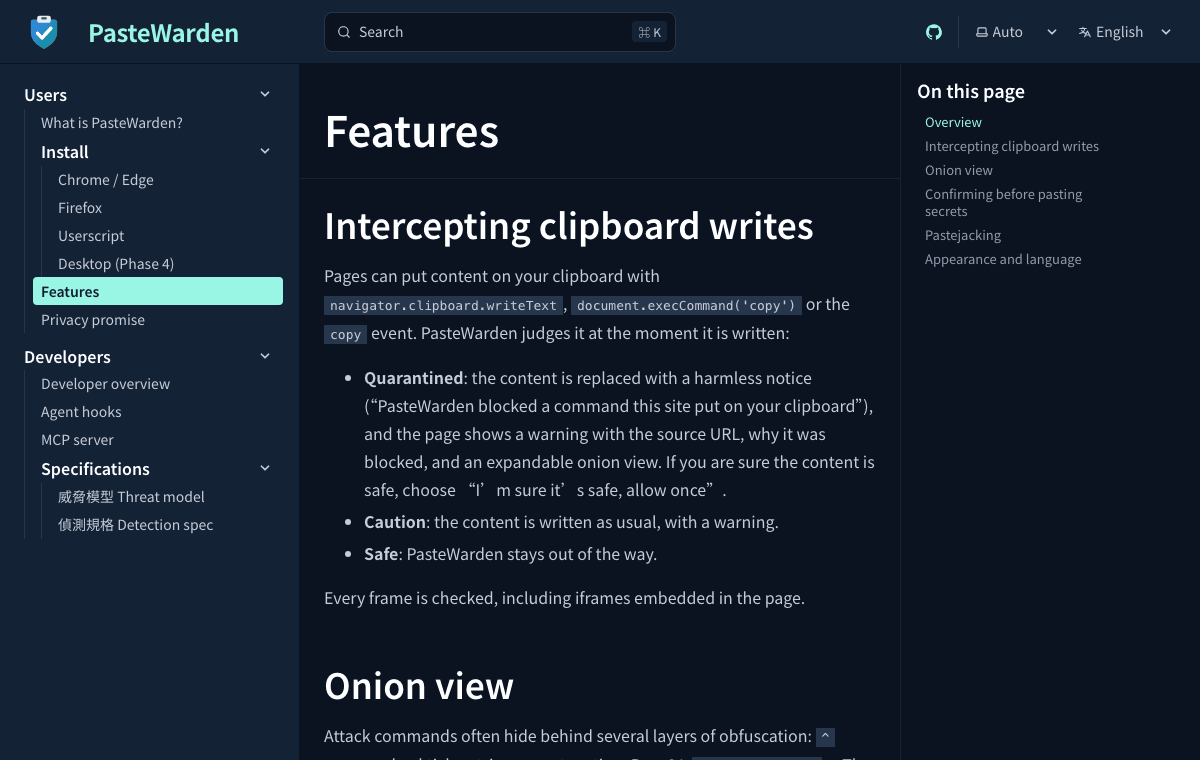
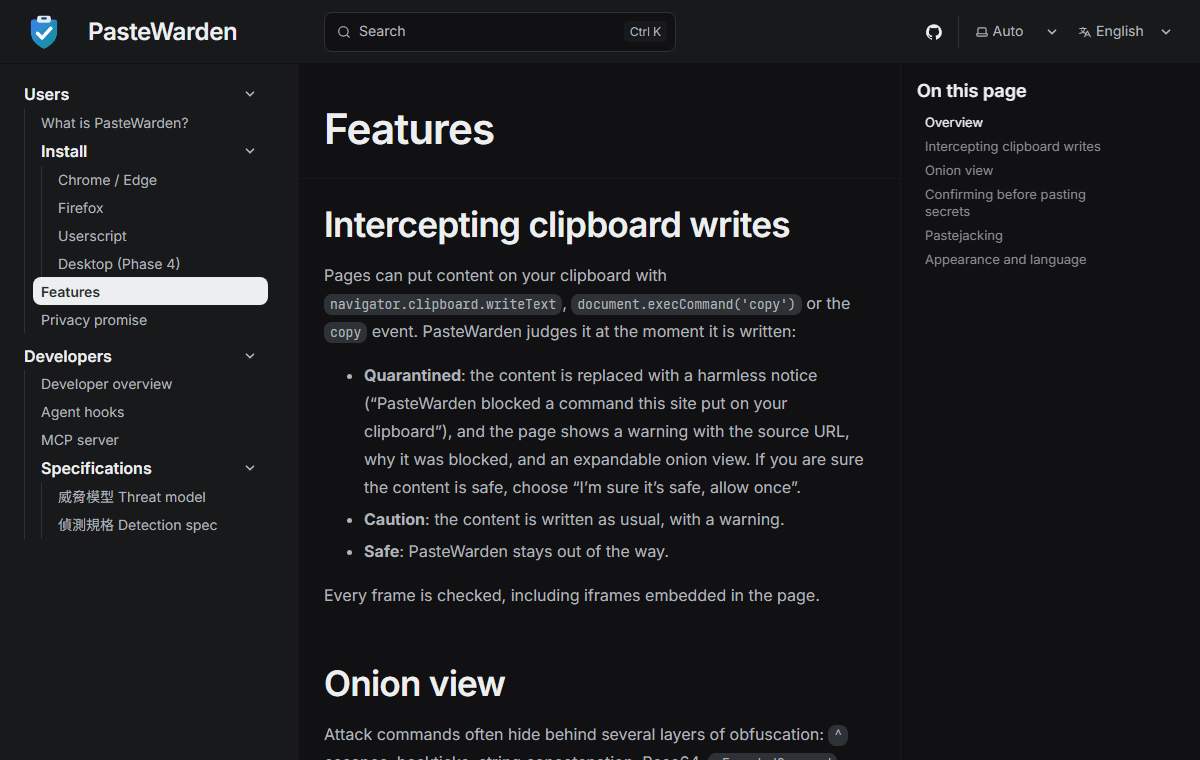
feat(docs): match the Starlight theme to the playground

diff --git a/apps/docs/src/styles/theme.css b/apps/docs/src/styles/theme.css
@@ -1,59 +1,127 @@
 /*
- * PasteWarden palette for Starlight (matches packages/ui/src/styles.css):
- * ink-navy surfaces from the banner, teal accent #5EEAD4. Starlight already follows the system
- * colour scheme and offers an auto / light / dark picker.
+ * Park UI look for Starlight, matching the playground (apps/web/src/styles.css): Radix slate
+ * grays, a monochrome accent (near-black on light, near-white on dark), Inter, Park's radii and
+ * soft shadows. Starlight still follows the system colour scheme and keeps its auto/light/dark
+ * picker. Starlight's dark tokens run from --sl-color-white (text) down to --sl-color-black (page).
  */
 
-/* Dark (Starlight's default block) */
+/* Dark (Starlight's default block): Radix slateDark. */
 :root {
-  --sl-color-accent-low: #0c2a2a;
-  --sl-color-accent: #2dd4bf;
-  --sl-color-accent-high: #99f6e4;
-  --sl-color-white: #ffffff;
-  --sl-color-gray-1: #e8edf3;
-  --sl-color-gray-2: #c3cdd9;
-  --sl-color-gray-3: #8b9bb0;
-  --sl-color-gray-4: #566780;
-  --sl-color-gray-5: #26364c;
-  --sl-color-gray-6: #142236;
-  --sl-color-black: #0b1220;
+  --sl-color-accent-low: #272a2d;
+  --sl-color-accent: #edeef0;
+  --sl-color-accent-high: #edeef0;
+  --sl-color-white: #edeef0;
+  --sl-color-gray-1: #d5d7da;
+  --sl-color-gray-2: #b0b4ba;
+  --sl-color-gray-3: #8b8f96;
+  --sl-color-gray-4: #5a6169;
+  --sl-color-gray-5: #2e3135;
+  --sl-color-gray-6: #18191b;
+  --sl-color-black: #111113;
 
-  --sl-font: "Inter", "Noto Sans TC", "PingFang TC", "Microsoft JhengHei", system-ui, sans-serif;
+  --sl-font:
+    "Inter Variable", "Inter", "Noto Sans TC", "PingFang TC", "Microsoft JhengHei", system-ui,
+    sans-serif;
   --sl-font-mono: "JetBrains Mono", ui-monospace, Menlo, Consolas, monospace;
+
+  --pw-radius-l2: 0.5rem;
+  --pw-radius-l3: 0.75rem;
+  --pw-shadow-xs: 0 1px 2px rgb(0 0 0 / 0.3), 0 0 1px rgb(255 255 255 / 0.12);
 }
 
+/* Light: Radix slate. */
 :root[data-theme="light"] {
-  --sl-color-accent-low: #c8fff4;
-  --sl-color-accent: #0f766e;
-  --sl-color-accent-high: #134e4a;
-  --sl-color-white: #0b1220;
-  --sl-color-gray-1: #17263a;
-  --sl-color-gray-2: #26364c;
-  --sl-color-gray-3: #4a5b72;
-  --sl-color-gray-4: #7a8aa0;
-  --sl-color-gray-5: #c3cdd9;
-  --sl-color-gray-6: #e8edf3;
-  --sl-color-gray-7: #f3f6f9;
-  --sl-color-black: #ffffff;
+  --sl-color-accent-low: #e8e8ec;
+  --sl-color-accent: #1c2024;
+  --sl-color-accent-high: #1c2024;
+  --sl-color-white: #1c2024;
+  --sl-color-gray-1: #2b2f35;
+  --sl-color-gray-2: #3f444b;
+  --sl-color-gray-3: #60646c;
+  --sl-color-gray-4: #8b8d98;
+  --sl-color-gray-5: #d9d9e0;
+  --sl-color-gray-6: #f0f0f3;
+  --sl-color-gray-7: #f9f9fb;
+  --sl-color-black: #fcfcfd;
+
+  --pw-shadow-xs: 0 1px 2px rgb(0 0 51 / 0.06), 0 0 1px rgb(0 0 51 / 0.25);
 }
 
-/* Wordmark: "Paste" + teal "Warden", like the banner. */
+:root {
+  font-feature-settings: "cv11", "ss01";
+}
+
 .site-title {
-  font-weight: 700;
-  letter-spacing: -0.01em;
+  font-weight: 600;
+  letter-spacing: -0.015em;
 }
 
-/* Hero on the landing page */
+/* Headings: Park's tighter, semibold scale. */
+.sl-markdown-content :is(h1, h2, h3, h4),
+h1#_top {
+  font-weight: 600;
+  letter-spacing: -0.02em;
+}
+
+/* Content links stay readable in a monochrome palette: always underlined. */
+.sl-markdown-content a:not(:where(.not-content *)) {
+  text-decoration: underline;
+  text-decoration-color: var(--sl-color-gray-4);
+  text-underline-offset: 0.2em;
+}
+.sl-markdown-content a:not(:where(.not-content *)):hover {
+  text-decoration-color: currentColor;
+}
+
+/* Cards, code blocks, asides and inputs: Park radii and hairline borders. */
+.card,
+.sl-link-card,
+.expressive-code .frame,
+.starlight-aside,
+.sl-markdown-content table {
+  border-radius: var(--pw-radius-l3);
+}
+.card,
+.sl-link-card {
+  box-shadow: var(--pw-shadow-xs);
+}
+.expressive-code .frame {
+  overflow: hidden;
+}
+site-search button,
+starlight-theme-select select,
+starlight-lang-select select,
+.sl-markdown-content code:not(:where(pre code)) {
+  border-radius: var(--pw-radius-l2);
+}
+
+/* Sidebar: the current page is a soft filled pill, like Park's ghost buttons. */
+.sidebar-content a[aria-current="page"],
+.sidebar-content a[aria-current="page"]:hover,
+.sidebar-content a[aria-current="page"]:focus {
+  border-radius: var(--pw-radius-l2);
+}
+
+/* Landing hero: a faint grid instead of a coloured glow, as on the playground. */
 .hero .tagline {
   max-width: 38rem;
 }
 
-[data-has-hero] .page {
-  background:
-    radial-gradient(
-      60rem 30rem at 85% -10%,
-      color-mix(in srgb, var(--sl-color-accent) 14%, transparent),
-      transparent 70%
-    ),
-    var(--sl-color-black);
+/* The grid sits behind the hero only and fades out, as on the playground. */
+.hero {
+  position: relative;
+  isolation: isolate;
+}
+.hero::before {
+  content: "";
+  position: absolute;
+  inset: -4rem -50vw;
+  z-index: -1;
+  pointer-events: none;
+  background-image:
+    linear-gradient(to right, var(--sl-color-gray-5) 1px, transparent 1px),
+    linear-gradient(to bottom, var(--sl-color-gray-5) 1px, transparent 1px);
+  background-size: 48px 48px;
+  opacity: 0.45;
+  mask-image: radial-gradient(ellipse 45% 70% at 50% 30%, #000 30%, transparent 100%);
 }
